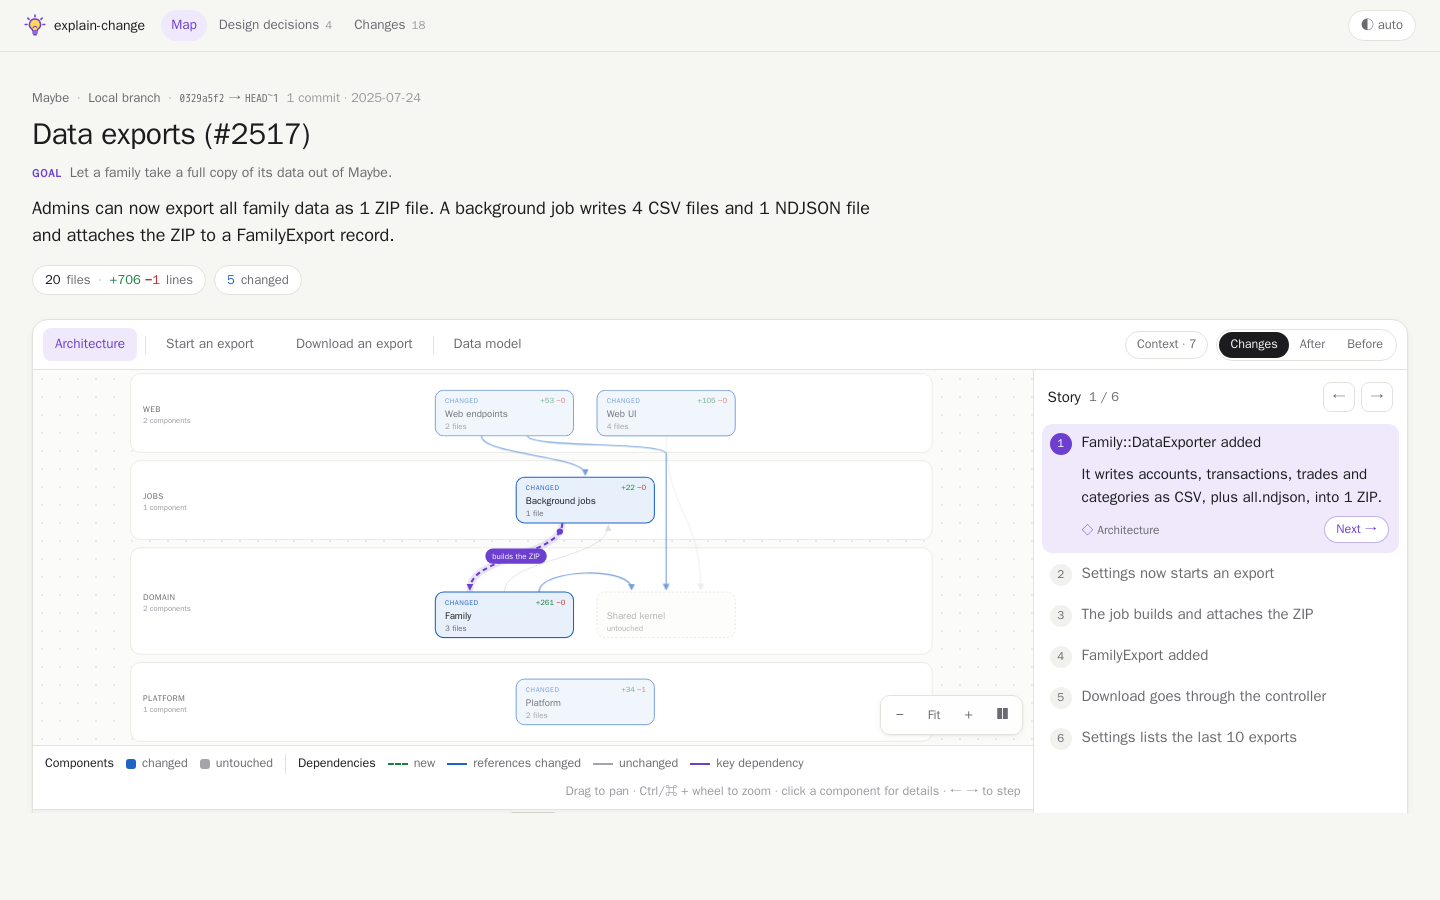
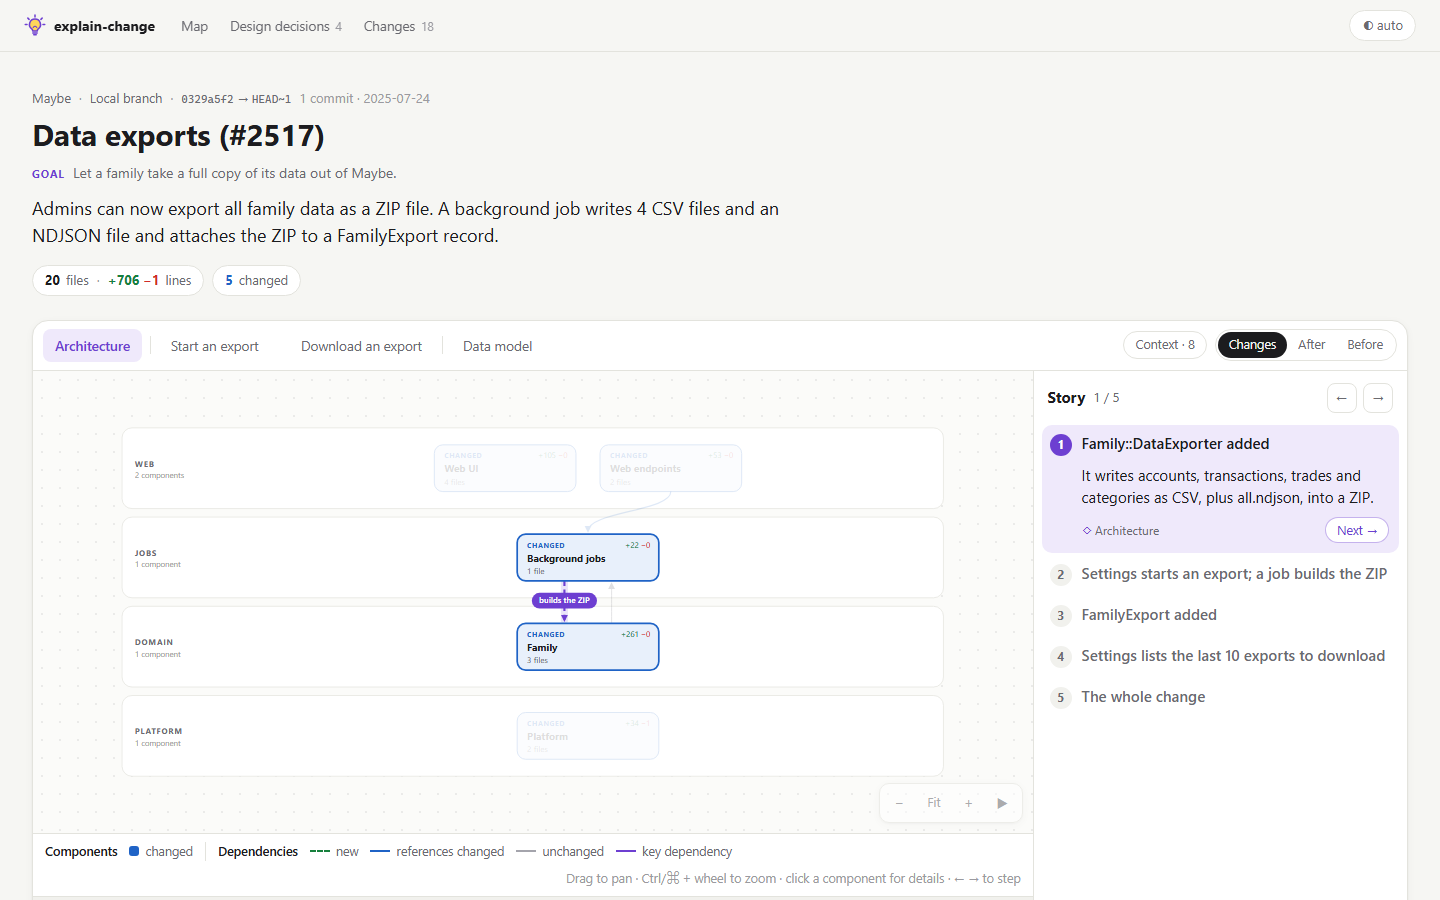
docs: README screenshot of the 0.6 maybe example
The old one showed 0.4's 6-step story and its "1 ZIP file" prose. Taken at 1440x900, light theme, on step 1 with Fit pressed.

diff --git a/README.md b/README.md
@@ -316,7 +316,8 @@ Read [docs/ARCHITECTURE.md](docs/ARCHITECTURE.md) first; the vocabulary is in [d
   CHANGELOG), move the CHANGELOG's notes under the new version, then push the tag `vX.Y.Z` from `main`. The release
   workflow runs the checks, attaches the 5 binaries to a GitHub release with those notes, and publishes the npm
   package when the repository has an `NPM_TOKEN` secret (it skips npm without it).
-- **Screenshot**: `docs/report.png` is the maybe example at 1440×900; retake it when the report's look changes.
+- **Screenshot**: `docs/report.png` is the maybe example at 1440×900, light theme, on its first story step with **Fit**
+  pressed (the whole map); retake it when the report's look or that example's story changes.
 
 </details>
 
